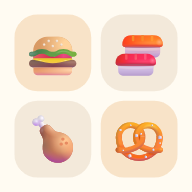
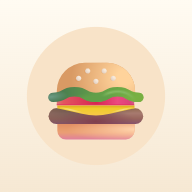
앱 아이콘을 햄버거 하나로 바꾼다

diff --git a/AGENTS.md b/AGENTS.md
@@ -3,7 +3,7 @@
 한 사람이 자기 아이폰에서 쓰는 맛집 기록 웹앱이다. 다녀온 가게마다 방문을 여러 번 쌓고(사진·먹은 메뉴·별점·한줄평),
 가 보고 싶은 곳을 따로 모아 두고, 둘 다 카카오 지도 위에 핀으로 본다. 사파리에서 **홈 화면에 추가해 앱처럼** 쓰며
 (화면 폭 375px, 손가락 조작), 사용자는 한 명·기기 한 대다. 로그인도 동기화도 없고, 기록은 그 기기에만 있으며
-기기를 옮길 때는 백업 파일을 쓴다. 홈 화면 아이콘 이름은 **먹보일기**(🍔🍣🍗🥨 네 칸 아이콘), 앱 안 제목은 "맛집 기록서"다.
+기기를 옮길 때는 백업 파일을 쓴다. 홈 화면 아이콘 이름은 **먹보일기**(🍔 햄버거 아이콘), 앱 안 제목은 "맛집 기록서"다.
 
 **`index.html` 한 파일이 앱 전부다.** HTML·CSS·JavaScript가 그 안에 다 있고 빌드 도구·패키지 관리자·테스트
 프레임워크가 없다. 외부 의존성은 위치 검색·지도를 처음 쓸 때 불러오는 카카오 지도 스크립트 하나뿐이다.

diff --git a/CLAUDE.md b/CLAUDE.md
@@ -3,7 +3,7 @@
 한 사람이 자기 아이폰에서 쓰는 맛집 기록 웹앱이다. 다녀온 가게마다 방문을 여러 번 쌓고(사진·먹은 메뉴·별점·한줄평),
 가 보고 싶은 곳을 따로 모아 두고, 둘 다 카카오 지도 위에 핀으로 본다. 사파리에서 **홈 화면에 추가해 앱처럼** 쓰며
 (화면 폭 375px, 손가락 조작), 사용자는 한 명·기기 한 대다. 로그인도 동기화도 없고, 기록은 그 기기에만 있으며
-기기를 옮길 때는 백업 파일을 쓴다. 홈 화면 아이콘 이름은 **먹보일기**(🍔🍣🍗🥨 네 칸 아이콘), 앱 안 제목은 "맛집 기록서"다.
+기기를 옮길 때는 백업 파일을 쓴다. 홈 화면 아이콘 이름은 **먹보일기**(🍔 햄버거 아이콘), 앱 안 제목은 "맛집 기록서"다.
 
 **`index.html` 한 파일이 앱 전부다.** HTML·CSS·JavaScript가 그 안에 다 있고 빌드 도구·패키지 관리자·테스트
 프레임워크가 없다. 외부 의존성은 위치 검색·지도를 처음 쓸 때 불러오는 카카오 지도 스크립트 하나뿐이다.
